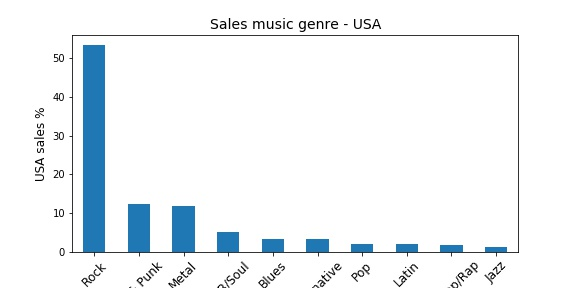
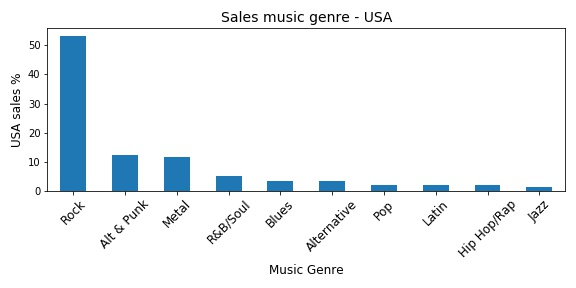
update notebook readme

diff --git a/README.md b/README.md
@@ -2,6 +2,7 @@
 or how to answer business questions using SQL ?
 adivsing a fictif music store based on data retrieve from a SQL database. 
 ![image](tot_sales_per_country.jpg)
+![image](tot_sales_per_country.svg)
 
 
 ![image](sales_music_genre_usa.jpg)
